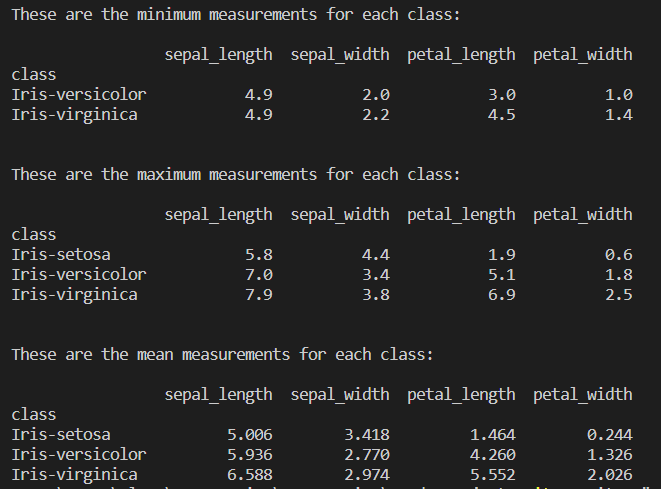
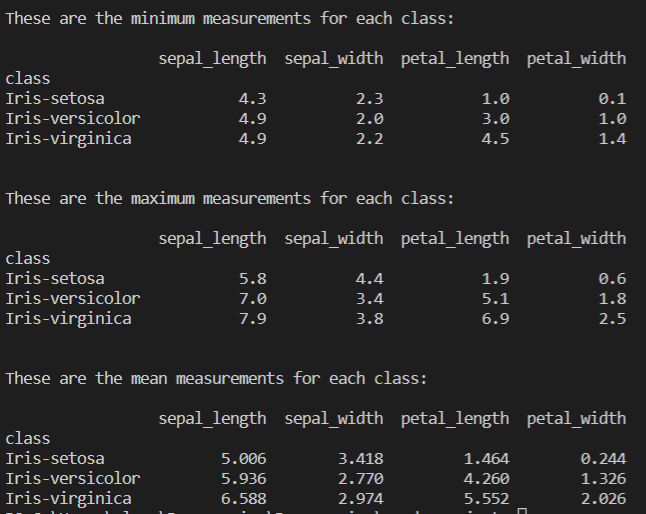
Updates

diff --git a/README.md b/README.md
@@ -101,7 +101,7 @@ What I really wanted to know was the minimum and maximum for each of the four me
 
  ![max_min_mean](/images/max_min_mean.png)
 
-While not a terribly visual tool in itself, I found it useful in that it gives the range of measurements for each species and already it is clear that *Iris setosa* is smaller, and by virtue of that, more distinctive than the other two species. 
+I found these stats useful in that it gives the range of measurements and the mean values sketch the dimensions of the 'average' leaf for each species and already it is clear that *Iris setosa* is smaller, and by virtue of that, more distinctive than the other two species. 
 
 ## Data Visualisation
 
